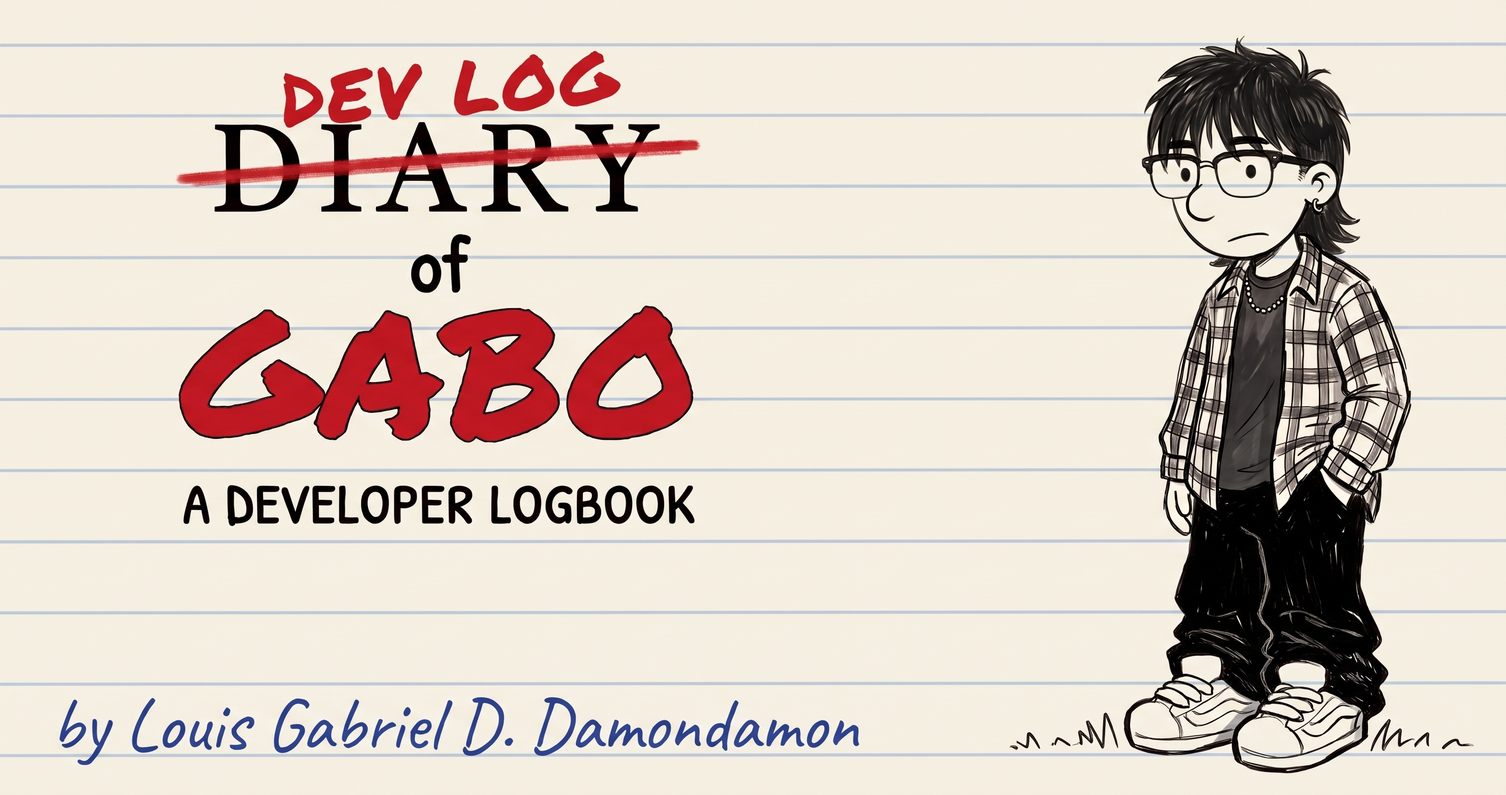
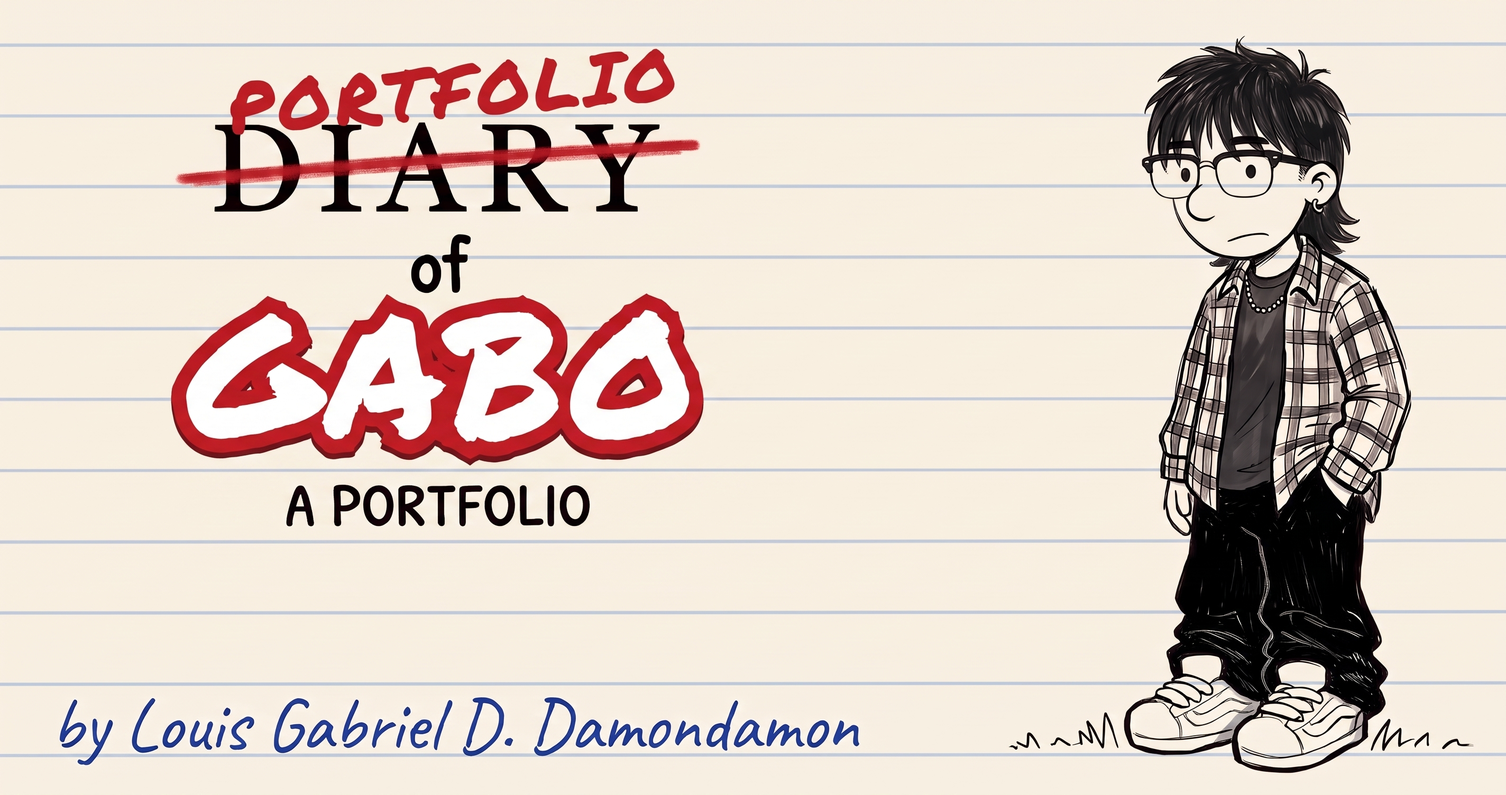
feat(branding): rename to Portfolio of Gabo and update SEO metadata
- Rename "Diary of Gabo / Logbook" to "Portfolio of Gabo" across
  title, OG/Twitter metas, webmanifest, hero copy, and page labels
- Refresh preview image with cache-busting (?v=2), corrected
  og:image:height (634), and add PWA screenshot entry

diff --git a/src/book/BookCover3D.tsx b/src/book/BookCover3D.tsx
@@ -242,19 +242,19 @@ function CoverArtwork() {
       </div>
 
       {/* 8. MAIN COVER CONTENT COLUMN */}
-      <div className="relative z-20 h-full pl-[58px] pr-[20px] pt-[18px] pb-[18px] flex flex-col items-center justify-between pointer-events-none select-none">
-        {/* TOP TITLE LOCKUP: DEV LOG / crossed-out DIARY / of / GABO / A DEVELOPER PORTFOLIO */}
+      <div className="relative z-20 h-full pl-[58px] pr-[20px] pt-[48px] pb-[18px] flex flex-col items-center justify-between pointer-events-none select-none">
+        {/* TOP TITLE LOCKUP: PORTFOLIO scrawled over crossed-out DIARY / of / GABO */}
         <div className="w-full flex flex-col items-center text-center">
-          {/* 'DEV LOG' scrawled cleanly above crossed-out serif 'DIARY' */}
+          {/* 'PORTFOLIO' scrawled cleanly above crossed-out serif 'DIARY' */}
           <div className="relative inline-block pt-[26px]">
-            {/* Handwritten red 'DEV LOG' */}
+            {/* Handwritten red 'PORTFOLIO' */}
             <span
               className="marker absolute top-0 left-[53%] -translate-x-1/2 -rotate-4 text-[30px] leading-none tracking-[0.06em] text-[#e0262f] whitespace-nowrap z-20"
               style={{
                 textShadow: '0 2px 5px rgba(0,0,0,0.85)',
               }}
             >
-              DEV LOG
+              PORTFOLIO
             </span>
 
             {/* Red marker splatter flecks */}
@@ -319,7 +319,7 @@ function CoverArtwork() {
             of
           </span>
 
-          {/* 'GABO' in White Brush Marker with Thick Crimson Paint Halo + Paint Scuffs */}
+          {/* 'GABO' in White Brush Marker with Thick Crimson Paint Halo */}
           <div className="relative -mt-1">
             <h1
               className="marker uppercase text-[72px] leading-[0.94] tracking-[0.03em] text-white select-none"
@@ -332,27 +332,7 @@ function CoverArtwork() {
             >
               GABO
             </h1>
-            {/* Chipped paint scuffs inside white letters */}
-            <svg
-              className="pointer-events-none absolute inset-0 w-full h-full"
-              viewBox="0 0 240 70"
-              aria-hidden="true"
-            >
-              <line x1="48" y1="26" x2="68" y2="25" stroke="rgba(200, 31, 39, 0.45)" strokeWidth="1.6" strokeLinecap="round" />
-              <circle cx="58" cy="38" r="1.2" fill="rgba(200, 31, 39, 0.5)" />
-              <line x1="135" y1="42" x2="162" y2="40" stroke="rgba(200, 31, 39, 0.5)" strokeWidth="1.6" strokeLinecap="round" />
-              <circle cx="148" cy="32" r="1.1" fill="rgba(200, 31, 39, 0.55)" />
-              <circle cx="188" cy="36" r="1.3" fill="rgba(200, 31, 39, 0.5)" />
-            </svg>
           </div>
-
-          {/* 'A DEVELOPER LOGBOOK' */}
-          <p
-            className="hand uppercase font-extrabold text-[23px] leading-tight tracking-[0.05em] text-[#f4f1ea] mt-2 mb-0"
-            style={{ textShadow: '0 1px 3px rgba(0,0,0,0.8)' }}
-          >
-            A DEVELOPER LOGBOOK
-          </p>
         </div>
 
         {/* CENTER/BOTTOM TAPED TORN RULED NOTEBOOK PAPER SCRAP */}
@@ -476,7 +456,7 @@ function CoverArtwork() {
               <p
                 className="text-center text-[20.5px] font-bold leading-none tracking-tight pt-0.5 pb-1 -rotate-1"
                 style={{
-                  fontFamily: '"Caveat", "Patrick Hand", cursive',
+                  fontFamily: 'var(--font-display)',
                   color: '#1b3f99',
                 }}
               >
@@ -1104,9 +1084,9 @@ function WrappingTapeLock({
             {/* Pure handwriting text */}
             <div className="relative -top-1 flex flex-col select-none rotate-[-2deg]">
               <span
-                className="hand font-bold text-[27px] tracking-wide text-[#c9252c] leading-none whitespace-nowrap drop-shadow-[0_1px_2px_rgba(0,0,0,0.25)]"
+                className="font-bold text-[27px] tracking-wide text-[#c9252c] leading-none whitespace-nowrap drop-shadow-[0_1px_2px_rgba(0,0,0,0.25)]"
                 style={{
-                  fontFamily: '"Caveat", "Patrick Hand", cursive',
+                  fontFamily: 'var(--font-display)',
                 }}
               >
                 click lock to open!
@@ -1128,9 +1108,9 @@ function WrappingTapeLock({
             {/* Handwritten scrawled text directly on dark cover */}
             <div className="rotate-[-3deg] filter drop-shadow-[0_2px_4px_rgba(0,0,0,0.95)]">
               <span
-                className="hand font-bold text-[24px] tracking-wide text-[#ff4d56] leading-none whitespace-nowrap"
+                className="font-bold text-[24px] tracking-wide text-[#ff4d56] leading-none whitespace-nowrap"
                 style={{
-                  fontFamily: '"Caveat", "Patrick Hand", cursive',
+                  fontFamily: 'var(--font-display)',
                   textShadow: '0 2px 4px #000, 0 0 8px rgba(255,77,86,0.7)',
                 }}
               >

diff --git a/index.html b/index.html
@@ -18,33 +18,41 @@
     <meta property="og:type" content="website" />
     <meta property="og:site_name" content="LOUIS GABRIEL D. DAMONDAMON" />
     <meta property="og:url" content="https://gabo-portfolio.vercel.app/" />
-    <meta property="og:title" content="Diary of Gabo · Developer Portfolio" />
+    <meta property="og:title" content="Portfolio of Gabo" />
     <meta
       property="og:description"
       content="Developer portfolio of Louis Gabriel D. Damondamon (Gabo)"
     />
-    <meta property="og:image" content="https://gabo-portfolio.vercel.app/images/preview/linkpreview.jpg" />
+    <meta property="og:image" content="https://gabo-portfolio.vercel.app/images/preview/linkpreview.jpg?v=2" />
+    <meta property="og:image:secure_url" content="https://gabo-portfolio.vercel.app/images/preview/linkpreview.jpg?v=2" />
     <meta property="og:image:type" content="image/jpeg" />
     <meta property="og:image:width" content="1200" />
-    <meta property="og:image:height" content="630" />
-    <meta property="og:image:alt" content="Diary of Gabo · Developer Portfolio" />
+    <meta property="og:image:height" content="634" />
+    <meta property="og:image:alt" content="Portfolio of Gabo · A Portfolio by Louis Gabriel D. Damondamon" />
 
     <!-- Twitter / X Cards -->
     <meta name="twitter:card" content="summary_large_image" />
-    <meta name="twitter:title" content="Diary of Gabo · Developer Portfolio" />
+    <meta name="twitter:title" content="Portfolio of Gabo" />
     <meta
       name="twitter:description"
       content="Developer portfolio of Louis Gabriel D. Damondamon (Gabo)"
     />
-    <meta name="twitter:image" content="https://gabo-portfolio.vercel.app/images/preview/linkpreview.jpg" />
-    <meta name="twitter:image:alt" content="Diary of Gabo · Developer Portfolio" />
+    <meta name="twitter:image" content="https://gabo-portfolio.vercel.app/images/preview/linkpreview.jpg?v=2" />
+    <meta name="twitter:image:alt" content="Portfolio of Gabo · A Portfolio by Louis Gabriel D. Damondamon" />
+
+    <!-- Preload primary self-hosted web fonts for instant, zero-FOUT cross-device consistency -->
+    <link rel="preload" href="/fonts/patrick-hand-latin.woff2" as="font" type="font/woff2" crossorigin />
+    <link rel="preload" href="/fonts/caveat-latin.woff2" as="font" type="font/woff2" crossorigin />
+    <link rel="preload" href="/fonts/permanent-marker.woff2" as="font" type="font/woff2" crossorigin />
+
+    <!-- CDN Fallback (Variable Caveat 400..700, Patrick Hand, Permanent Marker, Special Elite) -->
     <link rel="preconnect" href="https://fonts.googleapis.com" />
     <link rel="preconnect" href="https://fonts.gstatic.com" crossorigin />
     <link
-      href="https://fonts.googleapis.com/css2?family=Caveat:wght@600;700&family=Patrick+Hand&family=Permanent+Marker&family=Special+Elite&display=swap"
+      href="https://fonts.googleapis.com/css2?family=Caveat:wght@400..700&family=Patrick+Hand&family=Permanent+Marker&family=Special+Elite&display=swap"
       rel="stylesheet"
     />
-    <title>Diary of Gabo · Developer Portfolio</title>
+    <title>Portfolio of Gabo</title>
   </head>
   <body>
     <div id="root"></div>

diff --git a/src/book/NotebookSheet.tsx b/src/book/NotebookSheet.tsx
@@ -27,7 +27,7 @@ export default function NotebookSheet({
     // Skip counting blank desktop spread-4 filler page (index 9) so single-page numbers run sequentially
     const displayPage = pageIndex > 9 ? pageIndex : pageIndex + 1
     const runningHeader =
-      pageIndex % 2 === 0 ? 'DIARY OF GABO' : 'LOUIS GABRIEL D. DAMONDAMON'
+      pageIndex % 2 === 0 ? 'PORTFOLIO OF GABO' : 'LOUIS GABRIEL D. DAMONDAMON'
 
     return (
       <div
@@ -92,7 +92,7 @@ export default function NotebookSheet({
 
         <div className="flex items-center justify-between text-ink-soft hand text-sm font-bold mb-0.5 shrink-0 select-none relative z-10">
           <span>p. {pageIndex + 1}</span>
-          <span>DIARY OF GABO</span>
+          <span>PORTFOLIO OF GABO</span>
         </div>
 
         <div className="flex-1 min-h-0 relative z-10">{children}</div>

diff --git a/src/components/Hero.tsx b/src/components/Hero.tsx
@@ -78,7 +78,7 @@ export default function Hero({
         <div className="flex items-center gap-1.5">
           <DoodleCrown className="w-7 h-5.5 shrink-0" />
           <span className="hand text-[1.05rem] text-ink font-normal tracking-tight leading-none">
-            Personal Developer Logbook
+            Personal Developer Portfolio
           </span>
         </div>
         <h1 className="hand text-[5.9rem] leading-[0.76] font-extrabold text-ink tracking-tight mt-0.5 ml-8">

diff --git a/src/data/portfolioData.ts b/src/data/portfolioData.ts
@@ -463,7 +463,7 @@ export const SPREADS_META: SpreadMeta[] = [
   {
     spreadIndex: 0,
     tabLabel: 'Intro and About Me',
-    leftPageTitle: 'Intro Logbook',
+    leftPageTitle: 'Intro Portfolio',
     rightPageTitle: 'About Louis (Gabo)',
     mascotSpeech: 'Grab a page corner or swipe to flip pages!',
   },

diff --git a/src/components/GaboMascot.tsx b/src/components/GaboMascot.tsx
@@ -116,7 +116,7 @@ export default function GaboMascot({
         title="Click Gabo for a diary note!"
       >
         <span className="hand text-xl font-bold leading-none text-ink whitespace-nowrap">
-          diary of gabo
+          portfolio of gabo
         </span>
       </button>
     )
